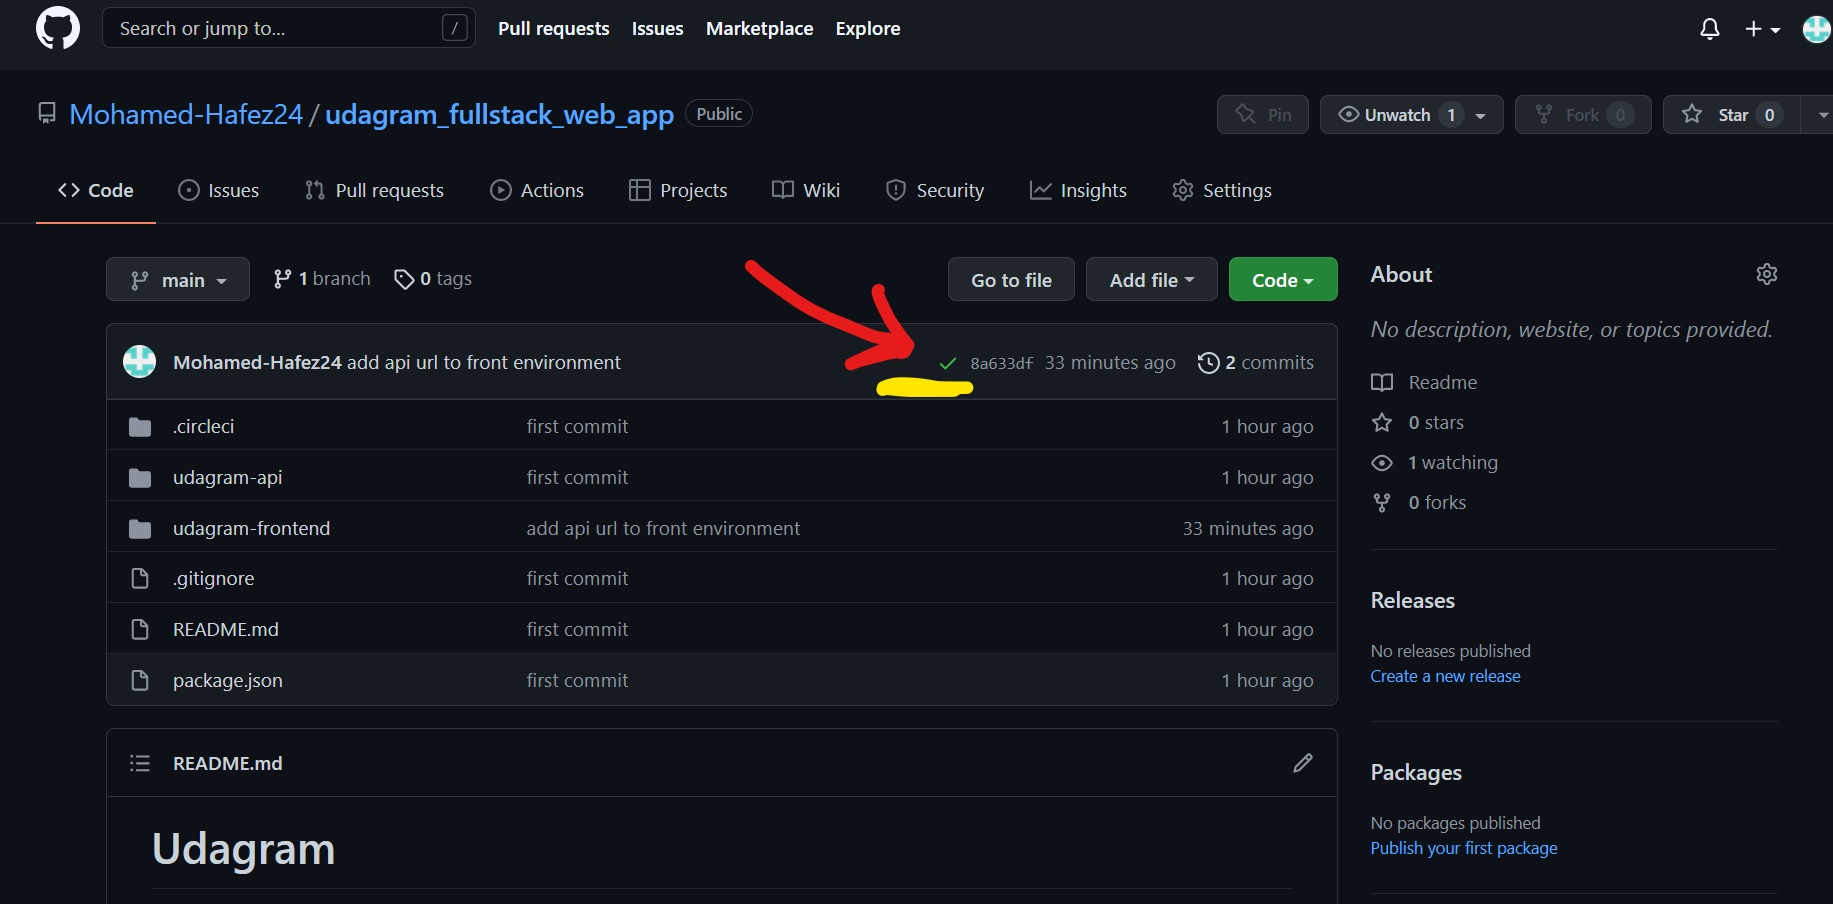
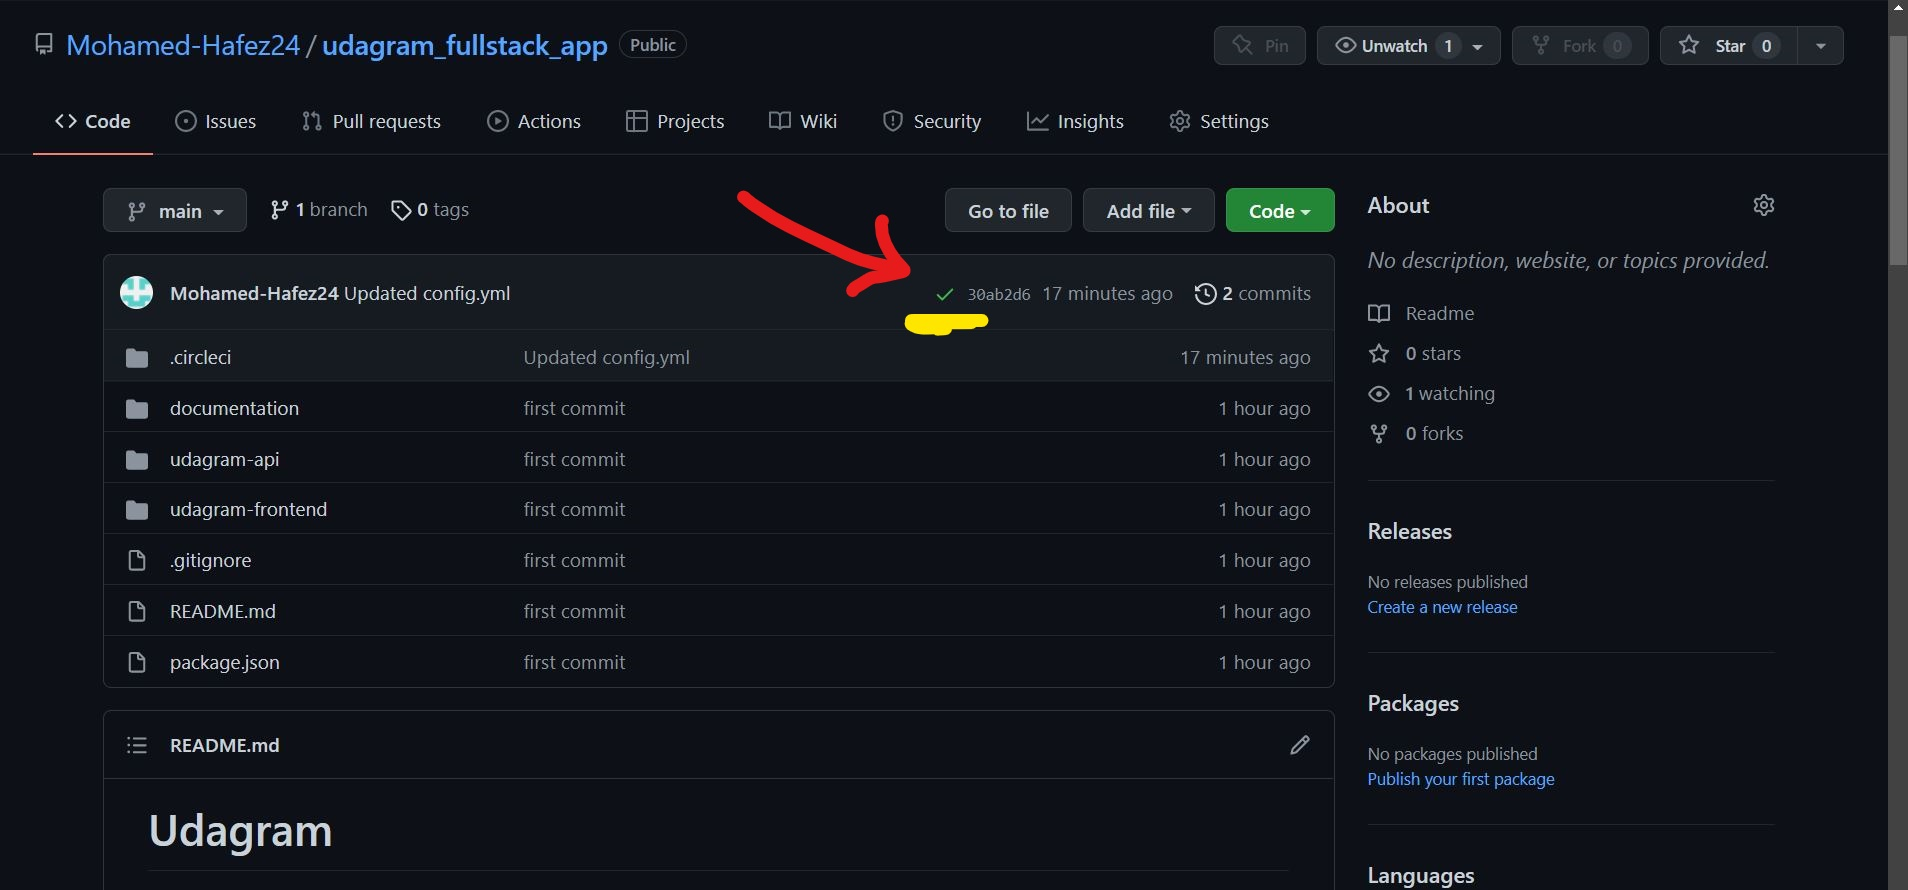
edit documentation commit

diff --git a/documentation/README.md b/documentation/README.md
@@ -1,5 +1,5 @@
 # Hosting a Full-Stack Application
-[![CircleCI](https://circleci.com/gh/Mohamed-Hafez24/udagram_fullstack_web_app.svg?style=shield&circle-token=<8c087ca8a31237fed9ee4a847cb7ff7e4b02f349>)](https://app.circleci.com/pipelines/github/Mohamed-Hafez24/udagram_fullstack_web_app/2/workflows/3c06d4d9-0769-4aa6-8f5e-369e7ac948d7/jobs/3)
+[![CircleCI](https://circleci.com/gh/Mohamed-Hafez24/udagram_fullstack_app.svg?style=shield&circle-token=<02b741c98c54a54073ebafd8a3fa5d4cfa893b38>)](https://app.circleci.com/pipelines/github/Mohamed-Hafez24/udagram_fullstack_app/2/workflows/d01ae900-8aee-49a4-9ab3-35c05c648ca1/jobs/3)
 
 ### Used Project for deployment is : `Udagram starter code provided by Udacity`.
 
@@ -20,7 +20,7 @@
 
 
 ### Links
-* The project repository on github which is linked to circleci, Go To => [`https://github.com/Mohamed-Hafez24/udagram_fullstack_web_app`](https://github.com/Mohamed-Hafez24/udagram_fullstack_web_app)
+* The project repository on github which is linked to circleci, Go To => [`https://github.com/Mohamed-Hafez24/udagram_fullstack_app`](https://github.com/Mohamed-Hafez24/udagram_fullstack_web_app)
 * The app is accessible via this link, Go To => [`http://udagram-front-app.s3-website-us-east-1.amazonaws.com/`](http://udagram-front-app.s3-website-us-east-1.amazonaws.com/) .
 > *NOTE <br> make sure you are using a browser that doesn't enforce CORS policys or blocking the user of the EB aws URL by the S3 URL.
 > For running chrome without cors, please check this: `https://alfilatov.com/posts/run-chrome-without-cars/`

diff --git a/documentation/Pipeline process/README.md b/documentation/Pipeline process/README.md
@@ -25,7 +25,7 @@
   5. Test that pipeline is working.
 
 
-#### `>>` CircleCI Badge: [![CircleCI](https://circleci.com/gh/Mohamed-Hafez24/udagram_fullstack_web_app.svg?style=shield&circle-token=<8c087ca8a31237fed9ee4a847cb7ff7e4b02f349>)](https://app.circleci.com/pipelines/github/Mohamed-Hafez24/udagram_fullstack_web_app/2/workflows/3c06d4d9-0769-4aa6-8f5e-369e7ac948d7/jobs/3)
+#### `>>` CircleCI Badge: [![CircleCI](https://circleci.com/gh/Mohamed-Hafez24/udagram_fullstack_app.svg?style=shield&circle-token=<02b741c98c54a54073ebafd8a3fa5d4cfa893b38>)](https://app.circleci.com/pipelines/github/Mohamed-Hafez24/udagram_fullstack_app/2/workflows/d01ae900-8aee-49a4-9ab3-35c05c648ca1/jobs/3)
 
 
 #### `-` ___I created a pipeline diagram to show the whole lifecycle of the depployment and building a pipline.___
